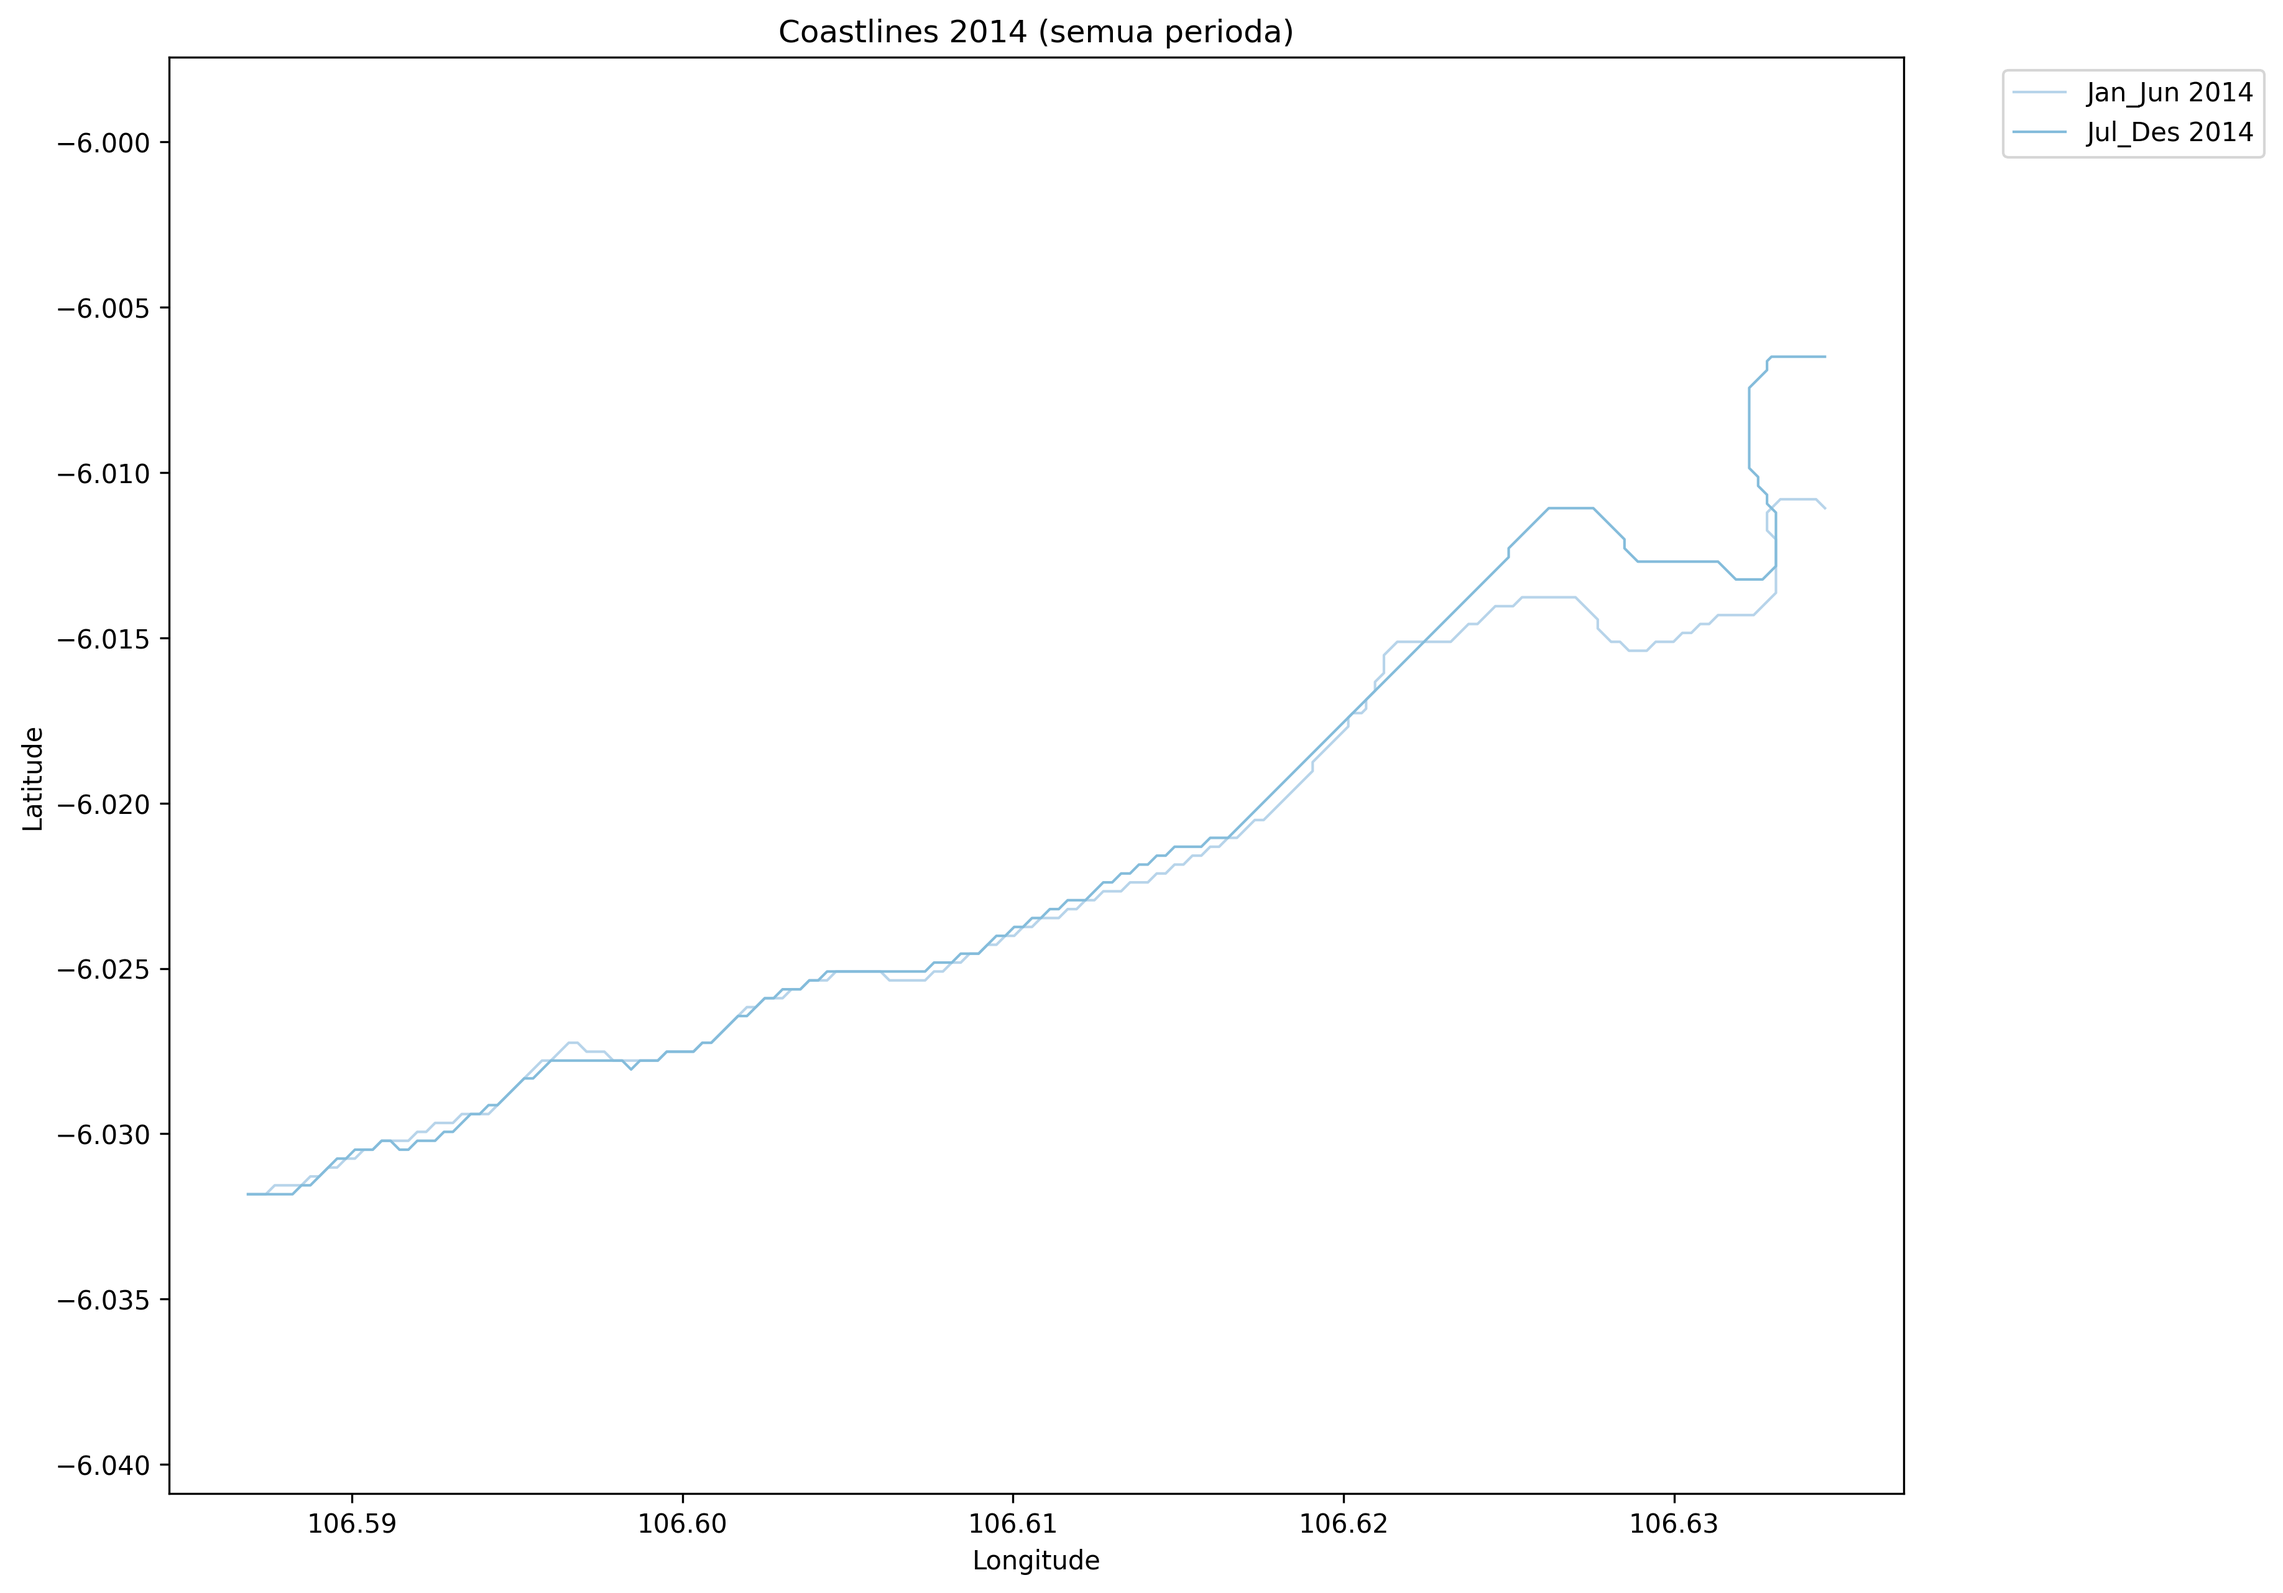
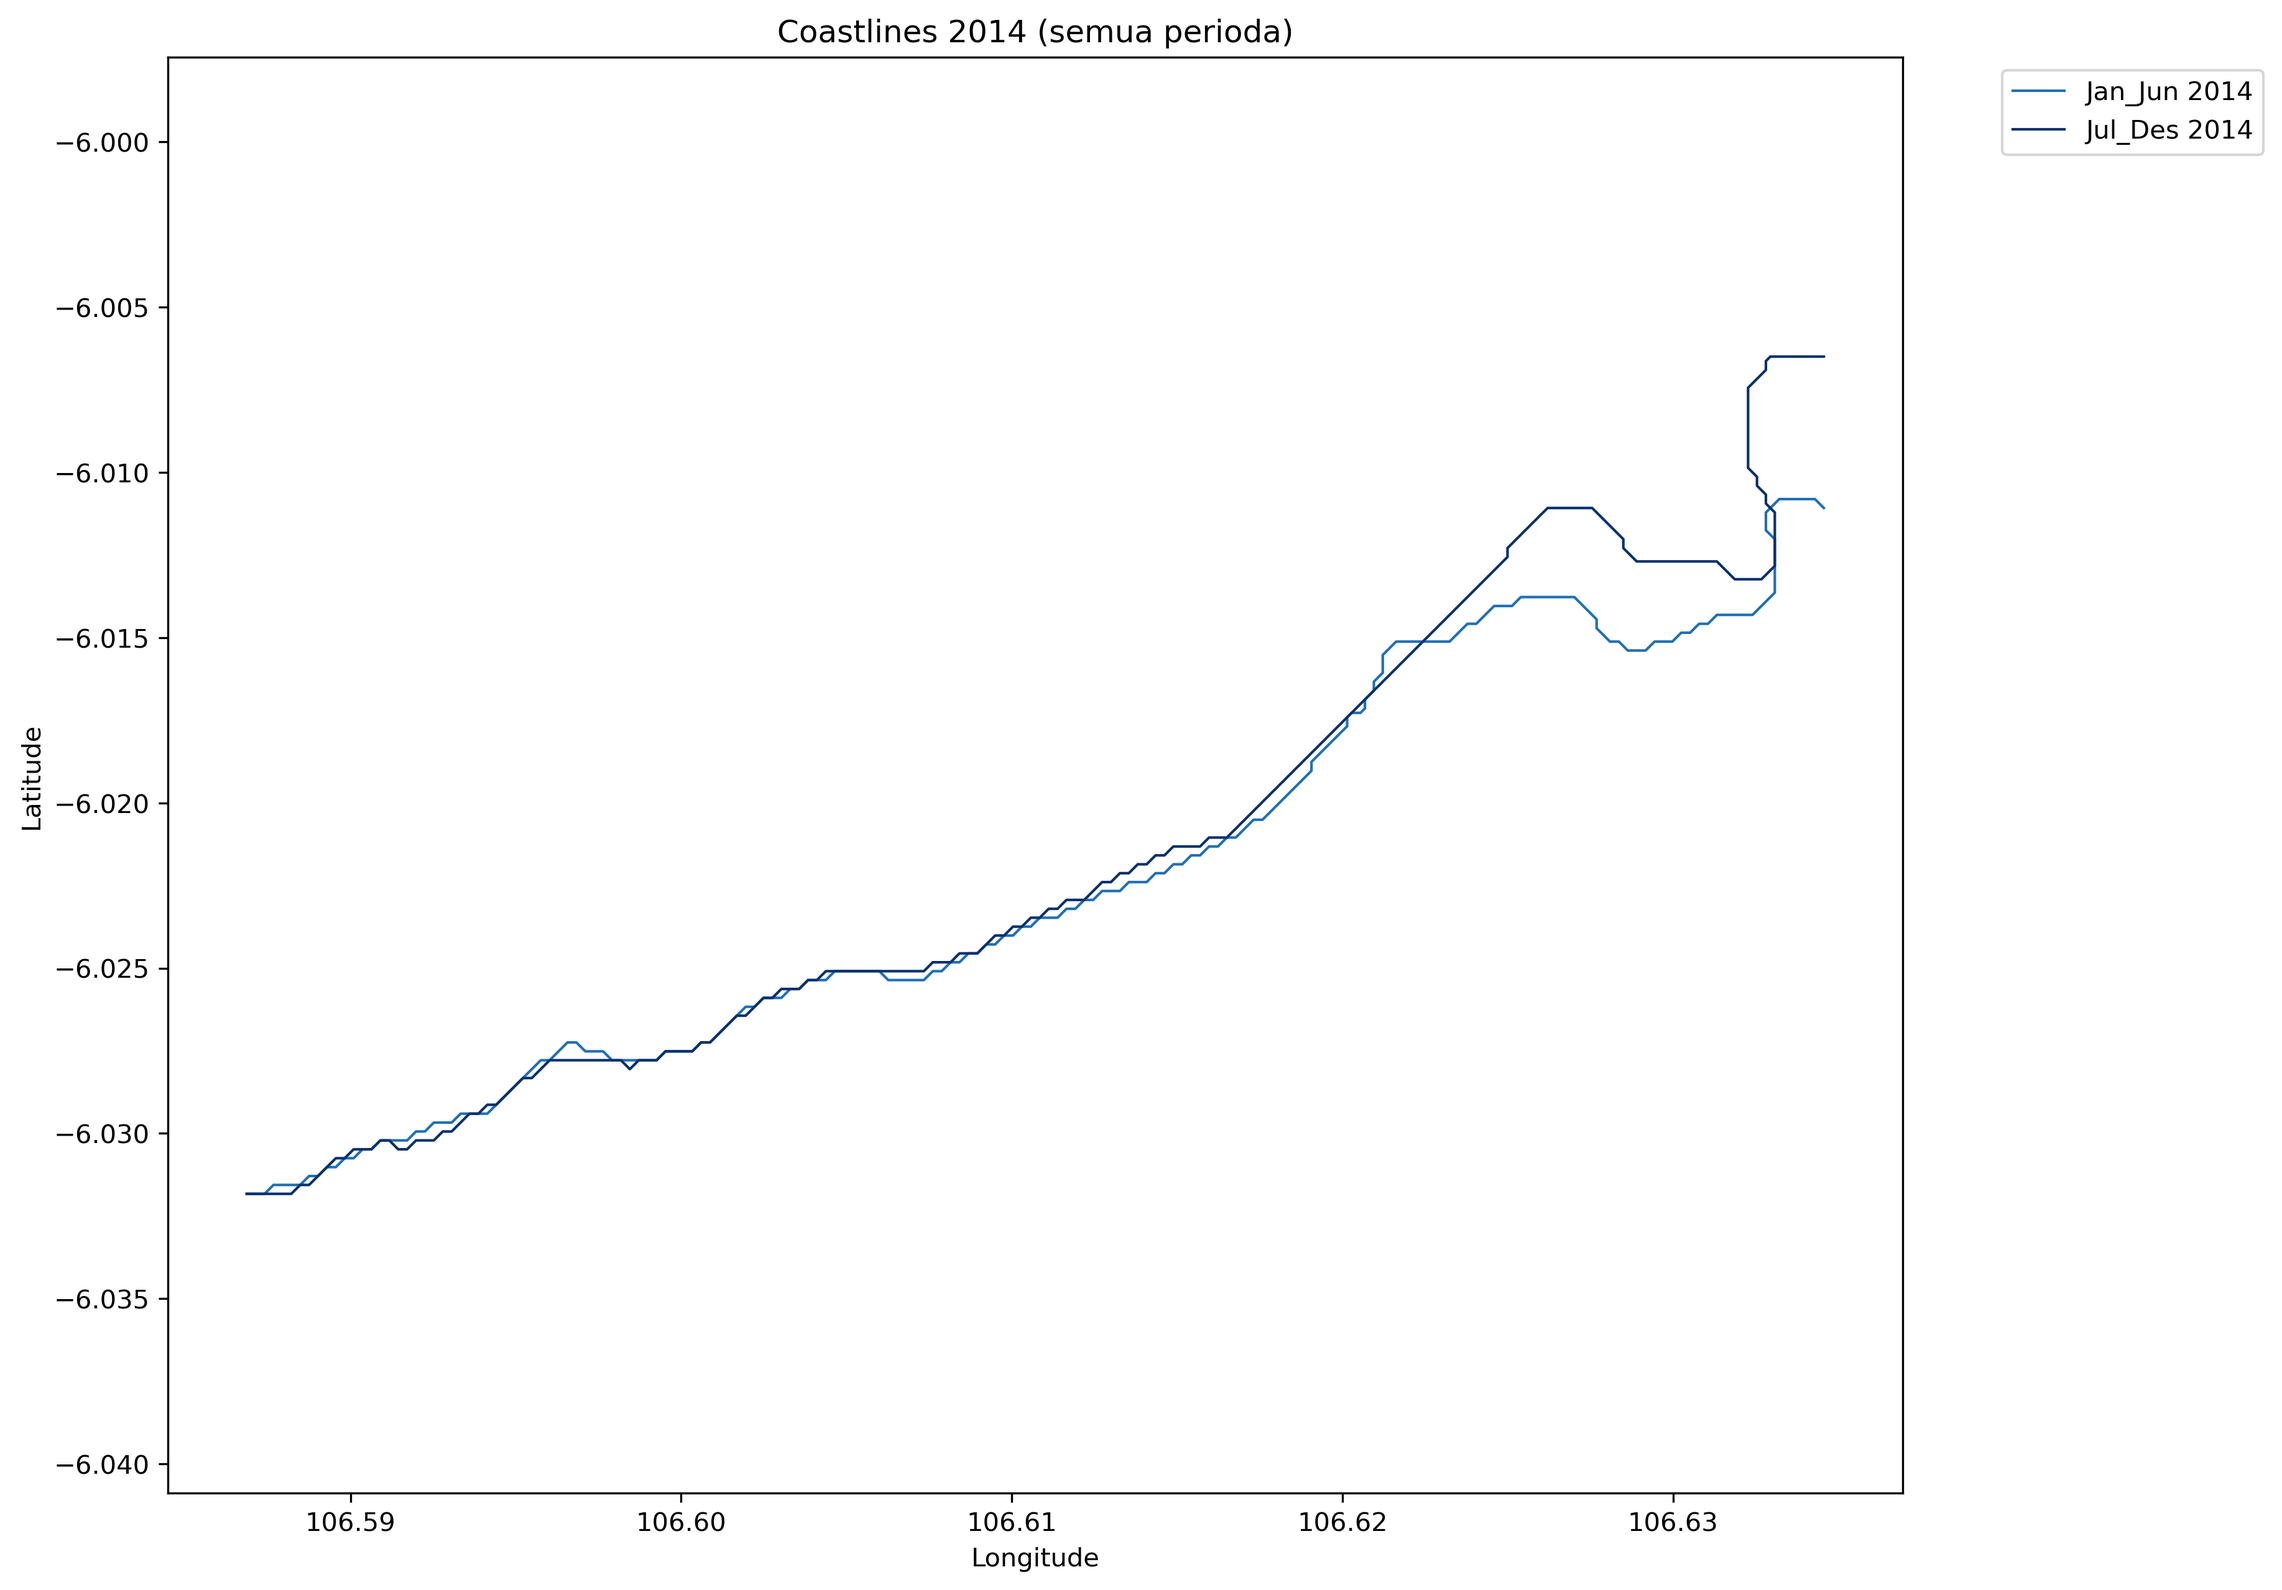
Ubah warna dari coastline

diff --git a/modules/combine_hasil.py b/modules/combine_hasil.py
@@ -371,7 +371,8 @@ def generate_coastlines_all_by_year(year):
 
     # Warna: satu warna per perioda (gradasi)
     cmap = cm.Blues
-    grad_colors = cmap(np.linspace(0.3, 1.0, len(periods)))
+    # grad_colors = cmap(np.linspace(0.3, 1.0, len(periods)))
+    grad_colors = cmap([0.75, 1, 0.475, 0.65, 0.825, 1])
     color_map = {periods[i]: grad_colors[i] for i in range(len(periods))}
 
     # Buat figure

diff --git a/modules/main.py b/modules/main.py
@@ -10,7 +10,7 @@ import combine_hasil
 # combine_hasil.avg_coastline(2)
 # combine_hasil.avg_coastline(4)
 # combine_hasil.avg_coastline(6)
-# combine_hasil.generate_coastline_compare(2012, 2023)
+# combine_hasil.generate_coastline_compare(2018, 2019)
 # combine_hasil.generate_coastline_compare(2023)
 # combine_hasil.generate_coastline_compare_avg(2013)
 # combine_hasil.generate_coastline_compare_avg(2023)

diff --git a/modules/landsat_model.py b/modules/landsat_model.py
@@ -13,7 +13,7 @@ np.random.seed(42)
 # 1) Authenticate & init
 # -------------------------
 try:
-    ee.Initialize(project="ee-johnsonnn")
+    ee.Initialize(project="ee-tiffanytasyaagatha")
 except ee.EEException:
     ee.Authenticate()
     ee.Initialize()

diff --git a/modules/sentinel_model.py b/modules/sentinel_model.py
@@ -13,7 +13,7 @@ np.random.seed(42)
 # 1) Authenticate & init
 # -------------------------
 try:
-    ee.Initialize(project="ee-johnsonnn")
+    ee.Initialize(project="ee-tiffanytasyaagatha")
 except ee.EEException:
     ee.Authenticate()
     ee.Initialize()
